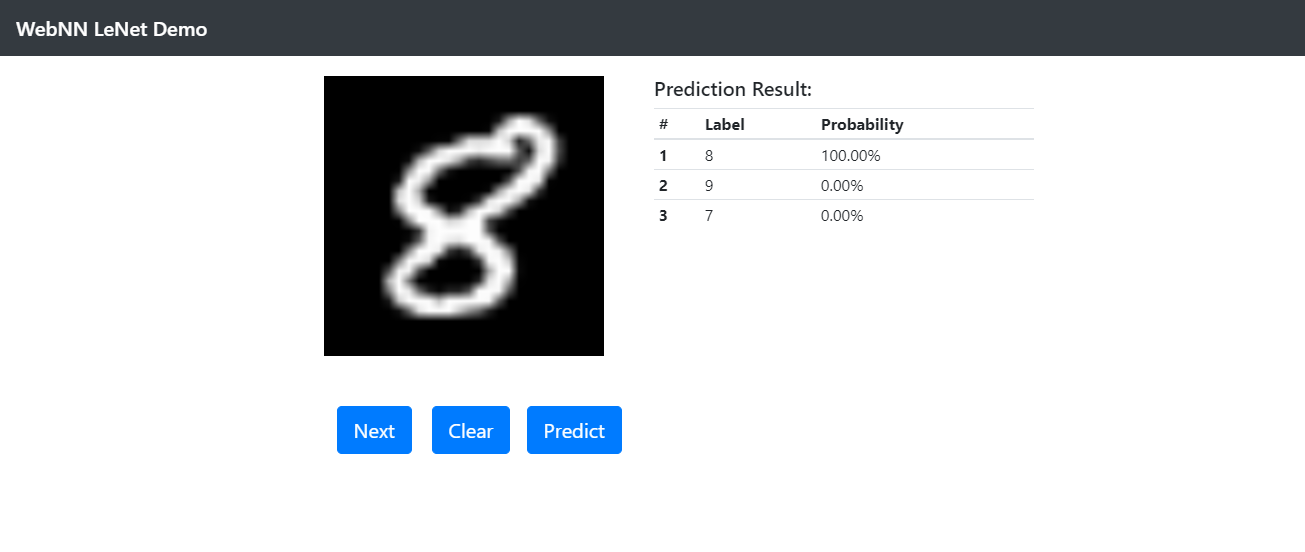
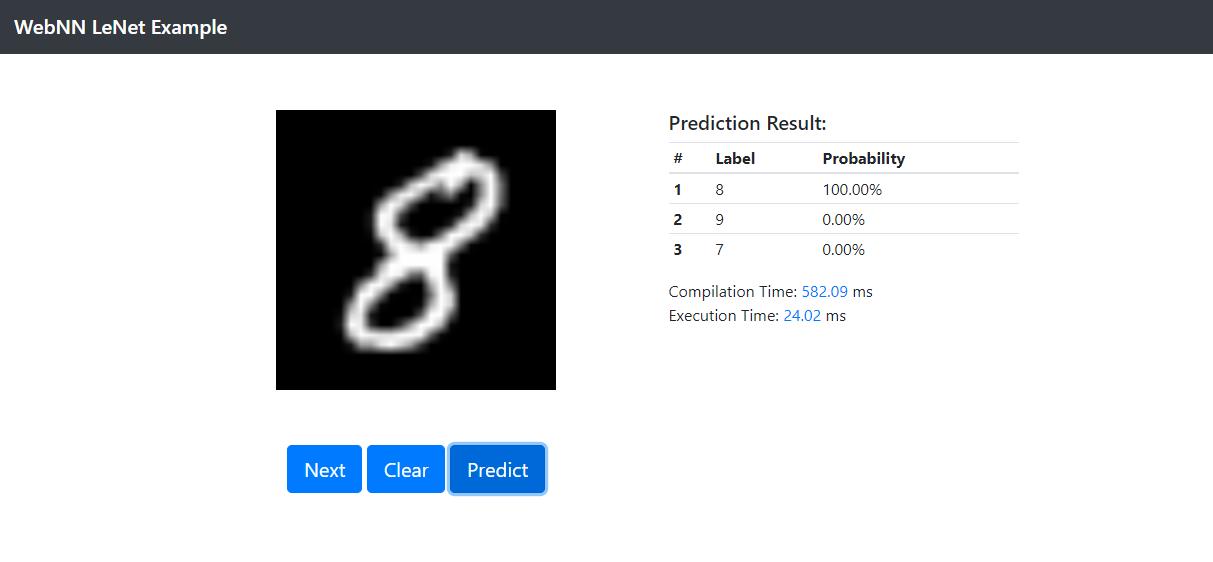
Add manual drawing digit screenshot

diff --git a/lenet/README.md b/lenet/README.md
@@ -27,7 +27,14 @@ Install dependencies:
 > npm install
 ```
 
-Please download the [lenet.bin](https://github.com/openvinotoolkit/openvino/blob/2020/inference-engine/samples/ngraph_function_creation_sample/lenet.bin) before launch the example.
+Download the [lenet.bin](https://github.com/openvinotoolkit/openvino/blob/2020/inference-engine/samples/ngraph_function_creation_sample/lenet.bin) into this folder.
+
+Start the web server:
+```sh
+> npm start
+```
+
+Open the web browser and navigate to http://localhost:8080
 
 ### Usage
 Click the `Predict` button to predict the digit shown in the canvas.
@@ -36,5 +43,11 @@ Click the `Next` button to pick up another digit from MNIST dataset.
 
 Click the `Clear` button to clear the canvas and use mouse to draw a digit manually.
 
-### Screenshot
+### Screenshots
+Predict the MNIST digit
+
 ![screenshot](screenshot.png)
+
+Predict the mannually drawing digit
+
+![screenshot](screenshot_manual.png)
